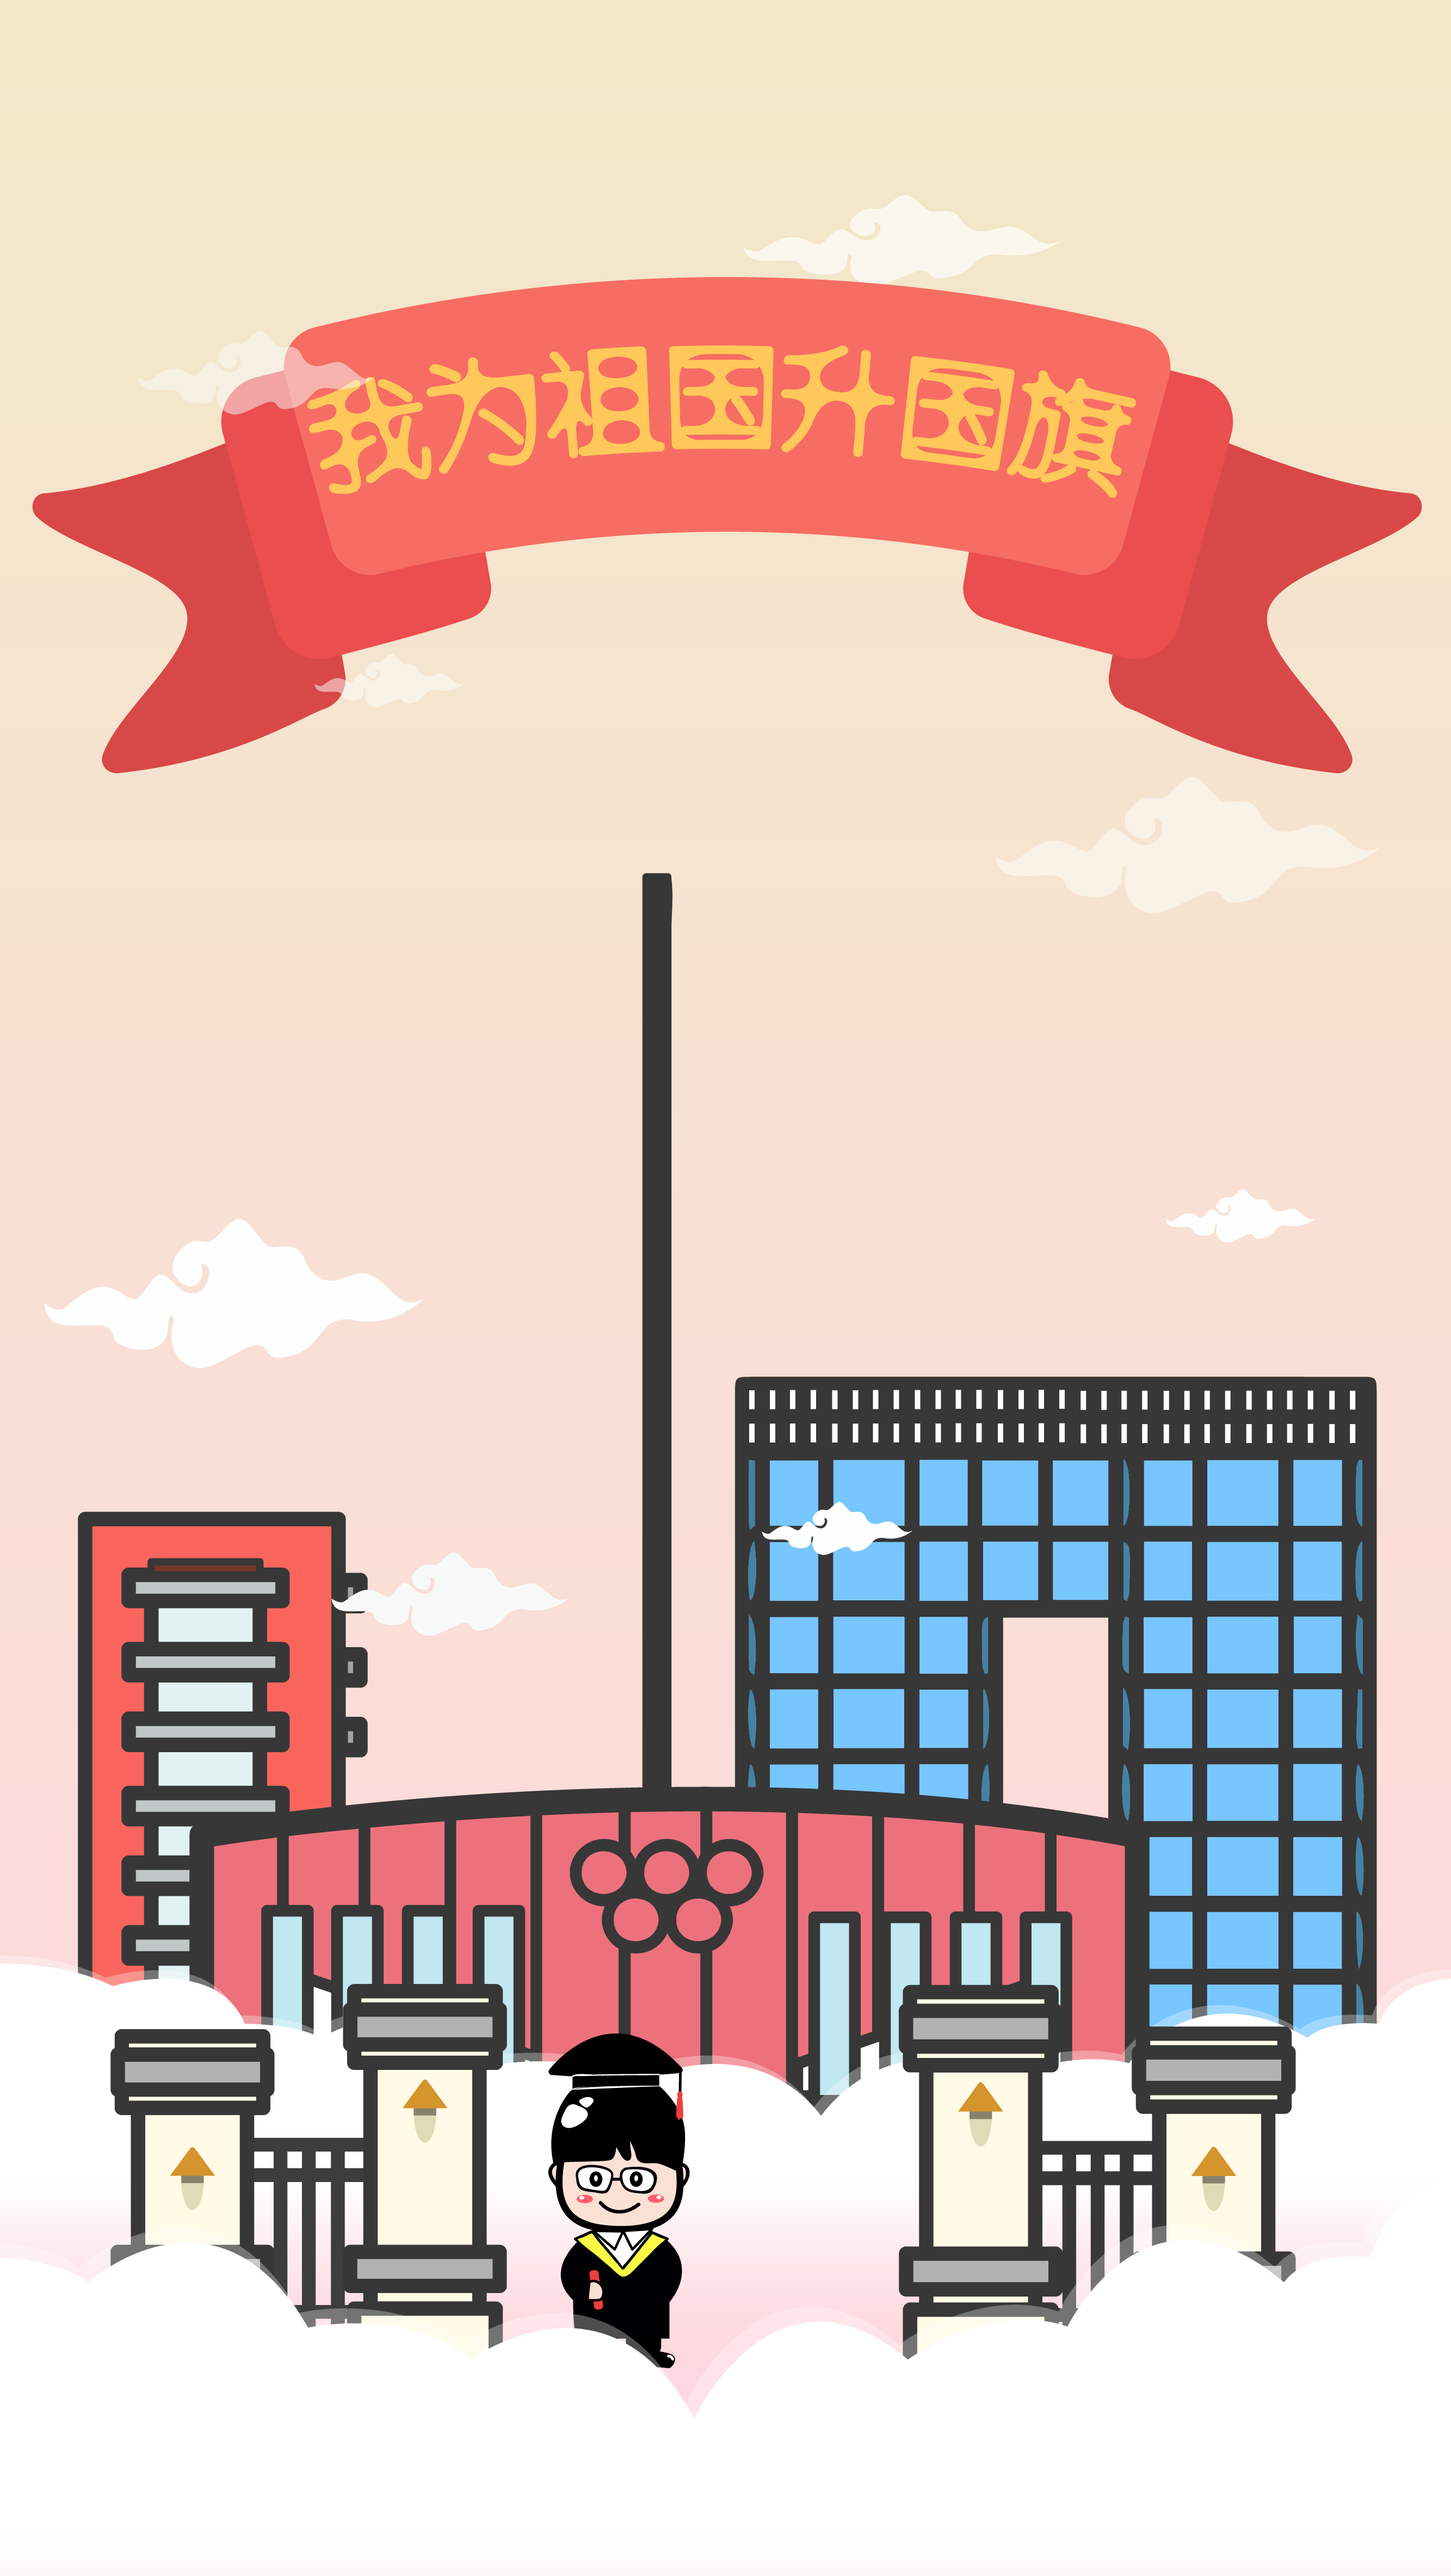
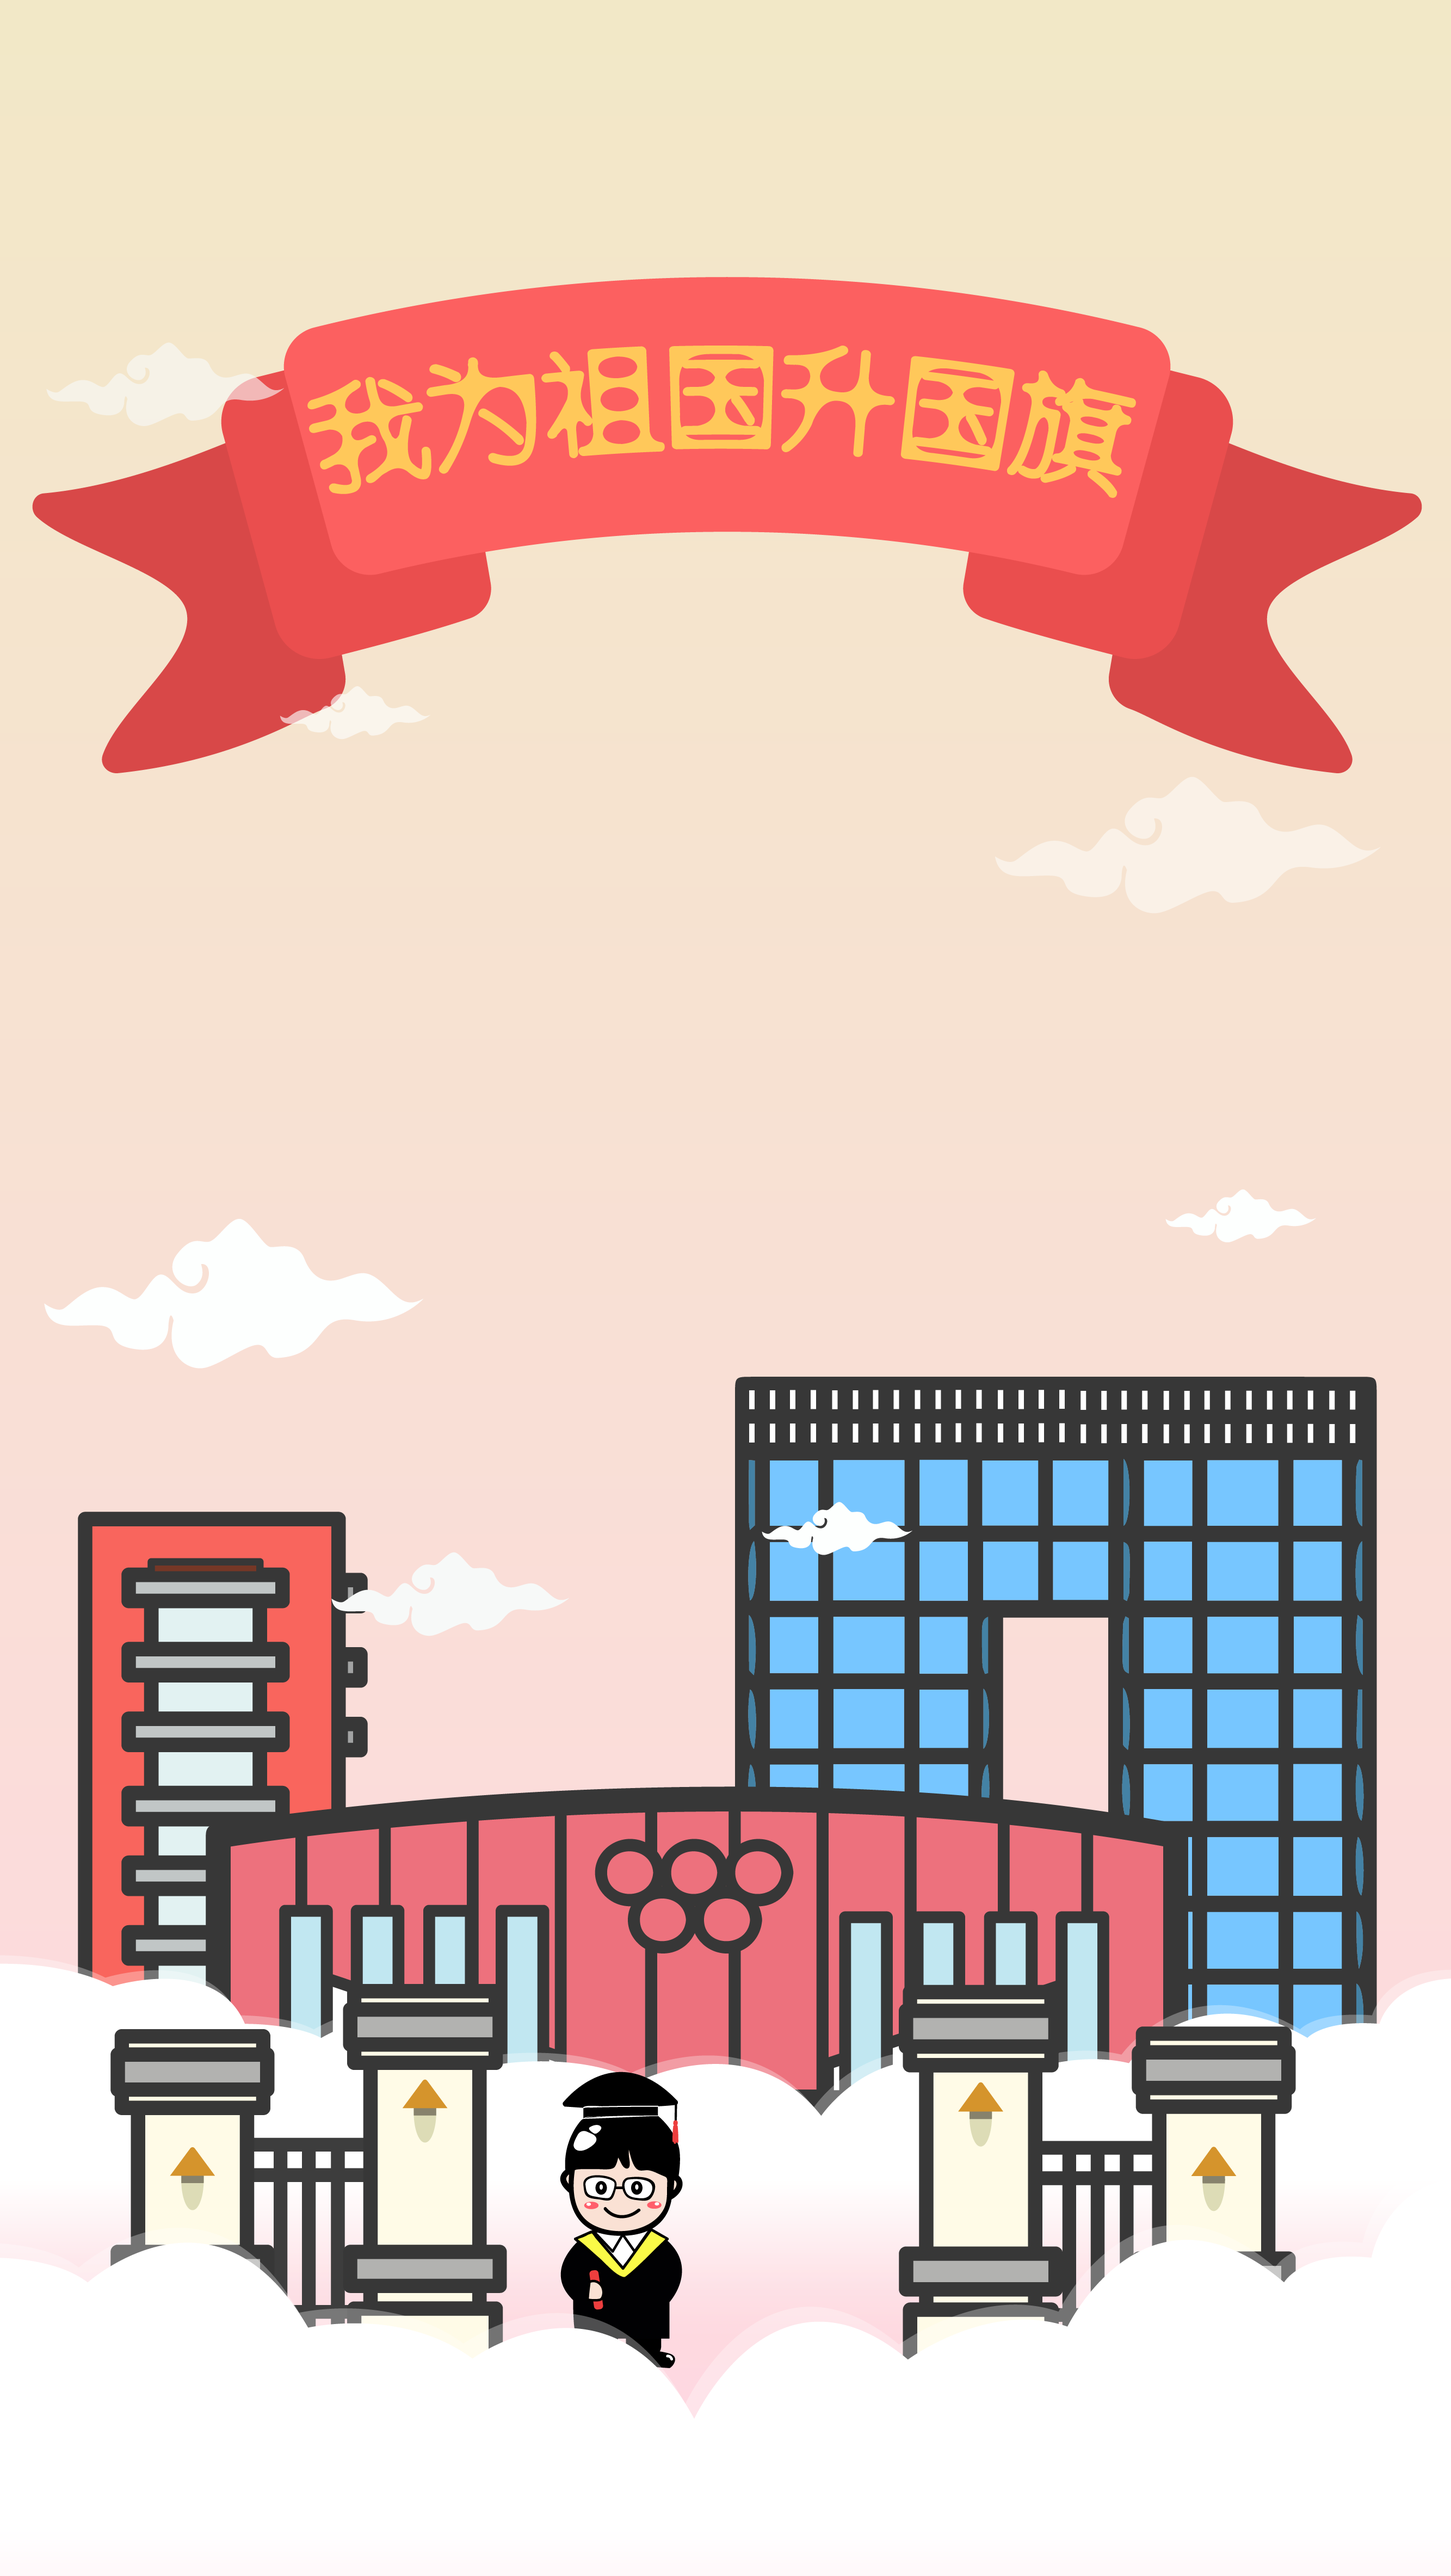
……

diff --git a/style/index.css b/style/index.css
@@ -206,7 +206,7 @@ header > img {
     background-size:100% 100%;
     width: 100%;
     height: 100%;
-    padding-top: 30px;
+    /*padding-top: 30px;*/
     position: relative;
 }
 
@@ -235,15 +235,16 @@ header > img {
 }
 
 #mid .bcc .flag_g {
-    width: 50%; /*218px;*/
-    background-image: url("../img/flagpole.png");
+    width: 100%; /*218px;*/
+    background-image: url("../img/flagpole.jpg");
     background-repeat: no-repeat;
     background-position: bottom;
     background-size: 100%;
     position: absolute;
     left: 0;
     bottom: 0;
-    opacity: 0;
+    z-index: 0;
+    /*opacity: 0;*/
 }
 
 #mid .bcc .flag {
@@ -282,6 +283,7 @@ header > img {
     position: relative;
     left: 2%;
     display: none;
+    z-index: 1;
 }
 
 #mid .bcc .bubble div {
@@ -347,32 +349,32 @@ header > img {
 /*background-color: #91D2FE;*/
 /*}*/
 
-@media screen and (min-width: 540px) {
-    #mid {
-        height: 1930px;
-    }
+/*@media screen and (min-width: 540px) {*/
+    /*#mid {*/
+        /*height: 1930px;*/
+    /*}*/
 
-    #mid .bcc {
-        height: 1900px;
-    }
-}
+    /*#mid .bcc {*/
+        /*height: 1900px;*/
+    /*}*/
+/*}*/
 
-@media screen and (min-width: 360px) and (max-width: 540) {
-    #mid {
-        height: 1230px;
-    }
+/*@media screen and (min-width: 360px) and (max-width: 540) {*/
+    /*#mid {*/
+        /*height: 1230px;*/
+    /*}*/
 
-    #mid .bcc {
-        height: 1200px;
-    }
-}
+    /*#mid .bcc {*/
+        /*height: 1200px;*/
+    /*}*/
+/*}*/
 
-@media screen and (max-width: 480px) {
-    #mid {
-        height: 780px;
-    }
+/*@media screen and (max-width: 480px) {*/
+    /*#mid {*/
+        /*height: 780px;*/
+    /*}*/
 
-    #mid .bcc {
-        height: 750px;
-    }
-}
+    /*#mid .bcc {*/
+        /*height: 750px;*/
+    /*}*/
+/*}*/

diff --git a/index.html b/index.html
@@ -33,8 +33,8 @@
                 <p>本日排<span class="rank">23</span>名 </p>
             </div>
         </div>
-        <img src="img/flagpole.png" class="flag_g"/>
-        <img src="img/flag.jpg" class="flag">
+        <img src="img/flagpole.jpg" class="flag_g"/>
+        <img src="img/flag.gif" class="flag">
         <button class="click">
             <img src="img/button.png" class="button_img">
         </button>
